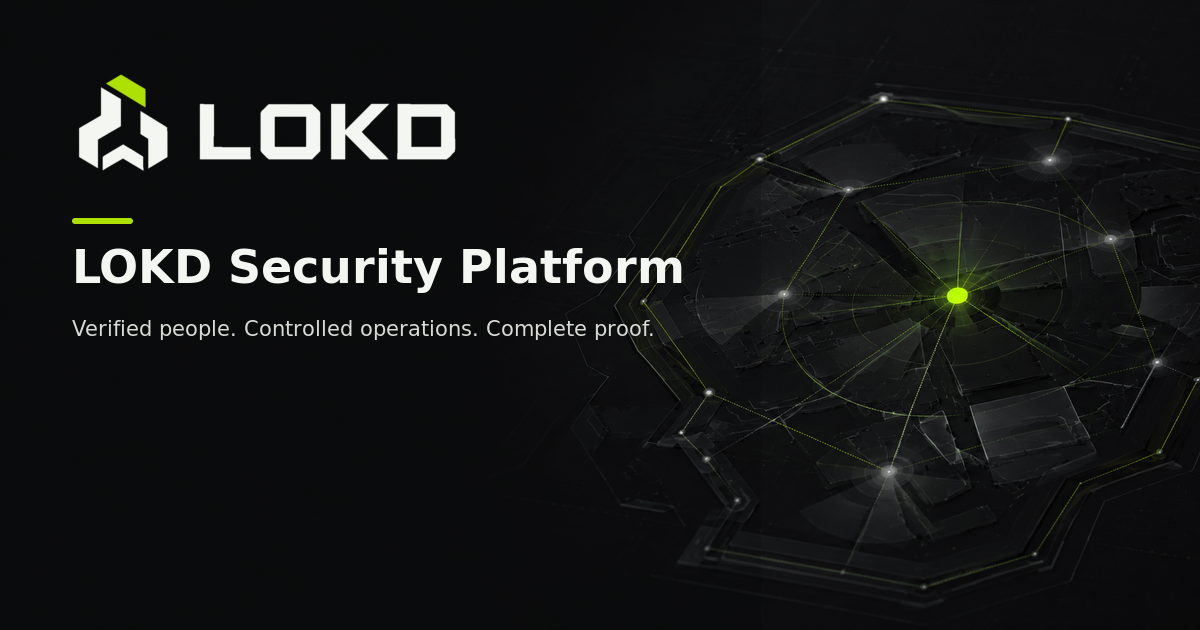
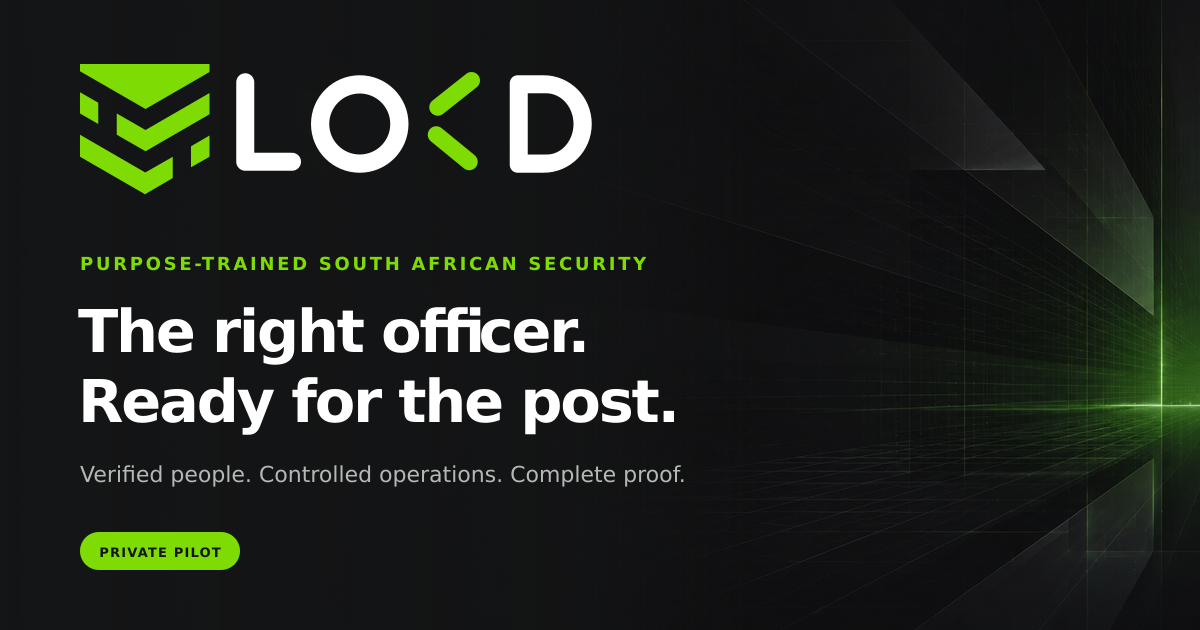
Adopt new LOKD master identity and brand assets

diff --git a/app/globals.css b/app/globals.css
@@ -6,8 +6,8 @@
   --muted: #6d7378;
   --line: #e5e8e9;
   --canvas: #f3f5f4;
-  --lime: #ade005;
-  --lime-soft: #eff8cf;
+  --lime: #7edb04;
+  --lime-soft: #eef9dc;
   --blue: #2878ee;
   --amber: #d98b15;
   --red: #cf3d45;
@@ -73,7 +73,7 @@
 .wallet-activity-row b { text-align: right; }
 .lokd-card-preview { margin-bottom: 16px; padding: 22px; border-radius: 20px; background: #eaf0d1; display: grid; grid-template-columns: 250px 1fr auto; gap: 26px; align-items: center; }
 .mini-payment-card { aspect-ratio: 1.586/1; padding: 20px; border-radius: 17px; background: linear-gradient(145deg,#202325,#0f1112); color: #fff; display: grid; grid-template-columns: 1fr auto; grid-template-rows: auto 1fr auto; box-shadow: 0 18px 36px rgba(22,24,25,.2); }
-.mini-payment-card img { width: 78px; filter: brightness(0) invert(1); }
+.mini-payment-card img { width: 78px; }
 .mini-payment-card > span { color: var(--lime); font-size: 7px; letter-spacing: .12em; }
 .mini-payment-card b { grid-column: 1/-1; align-self: end; font-size: 12px; letter-spacing: .14em; }
 .lokd-card-preview h2 { margin: 5px 0 8px; font-size: 24px; letter-spacing: -.04em; }
@@ -131,7 +131,7 @@
 .payment-gate { margin: -12px 0 22px; padding: 13px; border-radius: 11px; background: #fff5e6; display: flex; gap: 9px; }
 .payment-gate > span { width: 20px; height: 20px; border-radius: 7px; background: #f2dfbd; color: #8a611f; display: grid; place-items: center; font-size: 8px; font-weight: 800; flex: 0 0 auto; }
 .payment-gate p { margin: 0; color: #806a47; font-size: 8px; line-height: 1.5; }
-.future-card-note { margin-top: 18px; padding: 13px; border: 1px solid rgba(173,224,5,.22); border-radius: 11px; background: rgba(173,224,5,.07); }
+.future-card-note { margin-top: 18px; padding: 13px; border: 1px solid rgba(126,219,4,.22); border-radius: 11px; background: rgba(126,219,4,.07); }
 .future-card-note strong { color: var(--lime); font-size: 9px; }
 .future-card-note p { margin: 5px 0 0; color: #8d9597; font-size: 8px; line-height: 1.45; }
 
@@ -183,13 +183,13 @@
 .public-button:hover { transform: translateY(-2px); }
 .public-button b { margin-left: auto; font-size: 17px; font-weight: 500; }
 .public-button--dark { background: #17191a; color: #fff !important; box-shadow: 0 12px 28px rgba(18,20,21,.14); }
-.public-button--lime { background: var(--lime); color: #17190f !important; box-shadow: 0 15px 34px rgba(147,184,16,.22); }
+.public-button--lime { background: var(--lime); color: #17190f !important; box-shadow: 0 15px 34px rgba(126,219,4,.22); }
 .public-button--outline { border-color: #484d4f; background: rgba(255,255,255,.03); color: #fff !important; }
 .public-button--outline-dark { border-color: #d9dddd; background: #fff; color: #1d2021 !important; }
 .public-kicker { margin: 0; color: #78820e; font-size: 11px; font-weight: 900; text-transform: uppercase; letter-spacing: .14em; }
-.public-kicker i { width: 7px; height: 7px; margin-right: 8px; border-radius: 50%; background: var(--lime); display: inline-block; box-shadow: 0 0 0 6px rgba(173,224,5,.1); }
+.public-kicker i { width: 7px; height: 7px; margin-right: 8px; border-radius: 50%; background: var(--lime); display: inline-block; box-shadow: 0 0 0 6px rgba(126,219,4,.1); }
 .public-hero { min-height: 690px; padding: 80px max(24px, calc((100vw - 1280px) / 2)); background: #151718; color: #fff; display: grid; grid-template-columns: minmax(0,1.05fr) minmax(450px,.95fr); gap: 80px; align-items: center; position: relative; isolation: isolate; }
-.public-hero::before { content: ""; width: 650px; height: 650px; position: absolute; right: -200px; top: -300px; z-index: -1; border-radius: 50%; background: radial-gradient(circle,rgba(173,224,5,.12),transparent 67%); }
+.public-hero::before { content: ""; width: 650px; height: 650px; position: absolute; right: -200px; top: -300px; z-index: -1; border-radius: 50%; background: radial-gradient(circle,rgba(126,219,4,.12),transparent 67%); }
 .public-hero-copy { max-width: 680px; }
 .public-hero-copy h1 { margin: 26px 0 25px; font-size: clamp(54px,6vw,86px); line-height: .94; letter-spacing: -.065em; }
 .public-hero-copy h1 span { color: var(--lime); }
@@ -199,7 +199,7 @@
 .public-proof-row { margin-top: 34px; display: flex; flex-wrap: wrap; gap: 22px; color: #80878a; font-size: 10px; font-weight: 750; }
 .public-proof-row span::first-letter { color: var(--lime); }
 .public-hero-product { min-height: 520px; display: grid; place-items: center; position: relative; }
-.product-orbit { position: absolute; border: 1px solid rgba(173,224,5,.13); border-radius: 50%; }
+.product-orbit { position: absolute; border: 1px solid rgba(126,219,4,.13); border-radius: 50%; }
 .product-orbit--one { width: 470px; height: 470px; }
 .product-orbit--two { width: 330px; height: 330px; border-color: rgba(255,255,255,.08); }
 .public-offer-card { width: min(390px,88%); min-height: 420px; padding: 27px; z-index: 2; border: 1px solid rgba(255,255,255,.09); border-radius: 26px; background: #f8f9f7; color: #191b1c; box-shadow: 0 42px 80px rgba(0,0,0,.38); transform: rotate(-2deg); }
@@ -323,7 +323,7 @@
 .join-fields > label, .join-two label { color: #4f5658; font-size: 10px; font-weight: 800; }
 .join-fields label small { color: #92989a; font-weight: 500; }
 .join-fields input, .join-fields select { width: 100%; height: 48px; margin-top: 7px; padding: 0 13px; border: 1px solid #dbe0dc; border-radius: 11px; background: #fff; color: #202324; outline: none; font: inherit; font-size: 11px; font-weight: 500; }
-.join-fields input:focus, .join-fields select:focus { border-color: #8ba921; box-shadow: 0 0 0 3px rgba(173,224,5,.16); }
+.join-fields input:focus, .join-fields select:focus { border-color: #8ba921; box-shadow: 0 0 0 3px rgba(126,219,4,.16); }
 .join-two { display: grid; grid-template-columns: 1fr 1fr; gap: 13px; }
 .join-check-grid { display: grid; grid-template-columns: repeat(3,1fr); gap: 9px; }
 .join-check-grid legend { grid-column: 1/-1; }
@@ -461,7 +461,7 @@
 .officer-primary-action.is-live { box-shadow: inset 0 4px 0 var(--lime), 0 20px 48px rgba(20,21,22,.14); }
 .action-status { display: flex; align-items: center; justify-content: space-between; color: #91979a; font-size: 13px; }
 .action-status span { display: flex; align-items: center; gap: 8px; color: #f1f4f4; font-weight: 800; text-transform: uppercase; letter-spacing: .08em; }
-.action-status span i { width: 8px; height: 8px; border-radius: 50%; background: var(--lime); box-shadow: 0 0 0 5px rgba(173,224,5,.1); }
+.action-status span i { width: 8px; height: 8px; border-radius: 50%; background: var(--lime); box-shadow: 0 0 0 5px rgba(126,219,4,.1); }
 .action-status em { font-style: normal; }
 .officer-primary-action h2 { max-width: 680px; margin: 70px 0 8px; font-size: clamp(32px,5vw,52px); line-height: 1; letter-spacing: -.05em; }
 .officer-primary-action > p { margin: 0; color: #979da0; font-size: 15px; }
@@ -742,11 +742,11 @@ button { color: inherit; }
 
 .side-rail { position: fixed; inset: 0 auto 0 0; width: 252px; padding: 28px 20px 20px; background: var(--carbon); color: #fff; display: flex; flex-direction: column; z-index: 20; }
 .brand-lockup { height: 46px; display: flex; align-items: center; padding: 0 8px; }
-.brand-lockup img { width: 130px; height: auto; filter: brightness(0) invert(1); }
+.brand-lockup img { width: 130px; height: auto; }
 .pilot-chip { margin-top: 26px; padding: 12px; display: flex; gap: 10px; align-items: flex-start; border: 1px solid rgba(255,255,255,.11); background: rgba(255,255,255,.045); border-radius: 14px; }
 .pilot-chip > span:last-child { display: flex; flex-direction: column; gap: 2px; font-size: 11px; color: #90969b; line-height: 1.35; }
 .pilot-chip strong { color: #f7f9f9; font-size: 12px; font-weight: 650; }
-.pulse-dot { width: 8px; height: 8px; margin-top: 4px; border-radius: 50%; background: var(--lime); box-shadow: 0 0 0 4px rgba(173,224,5,.12); flex: 0 0 auto; }
+.pulse-dot { width: 8px; height: 8px; margin-top: 4px; border-radius: 50%; background: var(--lime); box-shadow: 0 0 0 4px rgba(126,219,4,.12); flex: 0 0 auto; }
 .side-rail nav { margin-top: 36px; display: flex; flex-direction: column; gap: 5px; }
 .nav-label { margin: 0 10px 10px; color: #72787d; font-size: 10px; font-weight: 750; text-transform: uppercase; letter-spacing: .16em; }
 .nav-item { border: 0; background: transparent; color: #aeb3b6; border-radius: 11px; min-height: 44px; padding: 0 12px; display: flex; align-items: center; gap: 10px; cursor: pointer; text-align: left; font-size: 13px; font-weight: 590; transition: .18s ease; }
@@ -792,7 +792,7 @@ button { color: inherit; }
 .coverage-summary { padding: 32px 32px 28px; display: flex; flex-direction: column; }
 .coverage-heading { display: flex; align-items: center; justify-content: space-between; color: #888e92; font-size: 10px; }
 .live-label { display: flex; gap: 7px; align-items: center; color: #dfe3e3; text-transform: uppercase; letter-spacing: .12em; font-weight: 750; }
-.live-label i { width: 7px; height: 7px; background: var(--lime); border-radius: 50%; box-shadow: 0 0 0 4px rgba(173,224,5,.12); }
+.live-label i { width: 7px; height: 7px; background: var(--lime); border-radius: 50%; box-shadow: 0 0 0 4px rgba(126,219,4,.12); }
 .coverage-summary h2 { margin: 38px 0 10px; max-width: 430px; font-size: clamp(29px, 3vw, 42px); line-height: 1.07; letter-spacing: -.04em; font-weight: 620; }
 .coverage-summary > p { margin: 0; max-width: 470px; color: #92989b; font-size: 12px; line-height: 1.65; }
 .coverage-stats { margin-top: auto; display: grid; grid-template-columns: repeat(3,1fr); border-top: 1px solid rgba(255,255,255,.09); padding-top: 20px; }
@@ -801,12 +801,12 @@ button { color: inherit; }
 .coverage-stats span { color: #7f8588; font-size: 10px; }
 .coverage-map { position: relative; min-height: 330px; overflow: hidden; background: radial-gradient(circle at 50% 48%, #26292b 0, #1a1c1e 72%); border-left: 1px solid rgba(255,255,255,.05); }
 .map-grid { position: absolute; inset: 0; opacity: .15; background-image: linear-gradient(rgba(255,255,255,.13) 1px, transparent 1px), linear-gradient(90deg, rgba(255,255,255,.13) 1px, transparent 1px); background-size: 42px 42px; transform: rotate(-8deg) scale(1.2); }
-.map-ring { position: absolute; border: 1px solid rgba(173,224,5,.13); border-radius: 50%; }
+.map-ring { position: absolute; border: 1px solid rgba(126,219,4,.13); border-radius: 50%; }
 .map-ring--one { width: 240px; height: 240px; top: 38px; left: 42px; }
 .map-ring--two { width: 180px; height: 180px; right: 34px; bottom: 10px; }
-.map-route { position: absolute; width: 48%; height: 1px; left: 27%; top: 53%; background: repeating-linear-gradient(90deg, rgba(173,224,5,.7) 0 5px, transparent 5px 11px); transform: rotate(-14deg); transform-origin: center; }
+.map-route { position: absolute; width: 48%; height: 1px; left: 27%; top: 53%; background: repeating-linear-gradient(90deg, rgba(126,219,4,.7) 0 5px, transparent 5px 11px); transform: rotate(-14deg); transform-origin: center; }
 .site-pin { position: absolute; border: 0; background: transparent; color: #fff; text-align: left; cursor: pointer; padding-left: 52px; min-width: 170px; }
-.site-pin > span { position: absolute; left: 0; top: 0; width: 40px; height: 40px; border-radius: 13px; background: var(--lime); display: grid; place-items: center; box-shadow: 0 0 0 8px rgba(173,224,5,.06), 0 12px 28px rgba(0,0,0,.24); }
+.site-pin > span { position: absolute; left: 0; top: 0; width: 40px; height: 40px; border-radius: 13px; background: var(--lime); display: grid; place-items: center; box-shadow: 0 0 0 8px rgba(126,219,4,.06), 0 12px 28px rgba(0,0,0,.24); }
 .site-pin strong, .site-pin small { display: block; }
 .site-pin strong { font-size: 12px; margin: 2px 0 4px; }
 .site-pin small { color: #8f9699; font-size: 9px; }
@@ -1216,7 +1216,7 @@ button { color: inherit; }
 .client-status-card { display: grid; grid-template-columns: 1.35fr .65fr; border-radius: 23px; overflow: hidden; background: var(--carbon); color: #fff; }
 .client-status-main { padding: 28px; min-height: 290px; display: flex; flex-direction: column; }
 .coverage-active { color: #dfe4e5; font-size: 9px; text-transform: uppercase; letter-spacing: .09em; }
-.coverage-active i { width: 7px; height: 7px; margin-right: 7px; display: inline-block; border-radius: 50%; background: var(--lime); box-shadow: 0 0 0 4px rgba(173,224,5,.1); }
+.coverage-active i { width: 7px; height: 7px; margin-right: 7px; display: inline-block; border-radius: 50%; background: var(--lime); box-shadow: 0 0 0 4px rgba(126,219,4,.1); }
 .client-status-main h2 { margin: 46px 0 7px; font-size: 31px; letter-spacing: -.04em; }
 .client-status-main > p { margin: 0; color: #8c9396; font-size: 10px; }
 .coverage-timeline { margin-top: auto; display: grid; grid-template-columns: auto 1fr auto; gap: 14px; align-items: center; color: #fff; font-size: 10px; }
@@ -1457,7 +1457,7 @@ button { color: inherit; }
 .feedback-categories button.active, .feedback-score button.active { border-color: #96b823; background: #f1f6df; color: #556d13; }
 .feedback-drawer > label { margin-top: 25px; display: block; }
 .feedback-drawer textarea { width: 100%; min-height: 125px; margin-top: 9px; padding: 12px; border: 1px solid #dfe3e3; border-radius: 11px; resize: vertical; font: inherit; line-height: 1.5; outline: none; }
-.feedback-drawer textarea:focus { border-color: #94b521; box-shadow: 0 0 0 3px rgba(173,224,5,.12); }
+.feedback-drawer textarea:focus { border-color: #94b521; box-shadow: 0 0 0 3px rgba(126,219,4,.12); }
 .feedback-message { margin: 13px 0 0; padding: 11px; border-radius: 9px; background: #eff5dc; color: #5e701e; font-size: 9px; line-height: 1.45; }
 .feedback-submit { width: 100%; min-height: 48px; margin-top: 18px; border: 0; border-radius: 12px; background: var(--lime); color: #1b1e12; font-size: 10px; font-weight: 900; cursor: pointer; }
 .feedback-submit:disabled { opacity: .55; cursor: default; }

diff --git a/app/officer/page.tsx b/app/officer/page.tsx
@@ -206,7 +206,7 @@ function OfficerEarnings({ state, pilot, flash }: { state: PilotState; pilot: Re
     paid: { label: "Paid", note: "Settlement completed", tone: "green" },
     held: { label: "Held for review", note: "Only this contested earning is affected", tone: "red" },
   };
-  return <section className="wallet-v2"><article className="wallet-balance-v2"><div><span>LOKD Earnings & Payouts</span><strong>{money(state.wallet.availableCents)}</strong><p>Ready for payout</p></div><dl><div><dt>Awaiting verification or release</dt><dd>{money(state.wallet.pendingCents)}</dd></div><div><dt>Payout processing</dt><dd>{money(state.wallet.withdrawalQueuedCents)}</dd></div><div><dt>Payout destination</dt><dd>Verified partner token · •••• 1842</dd></div></dl><div className="wallet-withdrawal"><span>Next processing window</span><strong>Thursday · expected Friday clearance</strong><button disabled={pilot.busy || state.wallet.availableCents === 0} onClick={() => void requestPayout()}>{pilot.busy ? "Queuing…" : state.wallet.availableCents ? `Request ${money(state.wallet.availableCents)} payout` : "Nothing ready yet"}</button></div><p className="earnings-disclaimer">Amounts shown are records of work and payout status. LOKD does not provide a bank account or stored-value wallet in this pilot.</p></article><section className="officer-section-card wallet-activity-v2"><div className="officer-section-heading"><div><p className="eyebrow">Earnings activity</p><h2>Where every amount stands</h2></div></div>{state.ledger.map((entry) => { const copy = stateCopy[entry.state] ?? stateCopy.pending_release; return <article className="earning-row-v2" key={entry.id}><div><strong>{entry.siteName}</strong><small>{entry.bookingId} · {entry.releaseCadence} release</small><p>{copy.note}</p></div><span><b>{money(entry.amountCents)}</b><em className={`pill tone-${copy.tone}`}>{copy.label}</em></span></article>; })}</section><section className="lokd-card-preview card-preview-v2"><div className="mini-payment-card"><img src="/lokd-logo.svg" alt="" /><span>OFFICER</span><b>•••• 2081</b></div><div><p className="eyebrow">Card concept · interest register</p><h2>LOKD Card</h2><p>An optional card remains under partner discussion. It will not affect officer approval, ranking, rates or access to ordinary EFT payouts.</p><small>No bank account, card or money movement is live in this private pilot.</small></div></section></section>;
+  return <section className="wallet-v2"><article className="wallet-balance-v2"><div><span>LOKD Earnings & Payouts</span><strong>{money(state.wallet.availableCents)}</strong><p>Ready for payout</p></div><dl><div><dt>Awaiting verification or release</dt><dd>{money(state.wallet.pendingCents)}</dd></div><div><dt>Payout processing</dt><dd>{money(state.wallet.withdrawalQueuedCents)}</dd></div><div><dt>Payout destination</dt><dd>Verified partner token · •••• 1842</dd></div></dl><div className="wallet-withdrawal"><span>Next processing window</span><strong>Thursday · expected Friday clearance</strong><button disabled={pilot.busy || state.wallet.availableCents === 0} onClick={() => void requestPayout()}>{pilot.busy ? "Queuing…" : state.wallet.availableCents ? `Request ${money(state.wallet.availableCents)} payout` : "Nothing ready yet"}</button></div><p className="earnings-disclaimer">Amounts shown are records of work and payout status. LOKD does not provide a bank account or stored-value wallet in this pilot.</p></article><section className="officer-section-card wallet-activity-v2"><div className="officer-section-heading"><div><p className="eyebrow">Earnings activity</p><h2>Where every amount stands</h2></div></div>{state.ledger.map((entry) => { const copy = stateCopy[entry.state] ?? stateCopy.pending_release; return <article className="earning-row-v2" key={entry.id}><div><strong>{entry.siteName}</strong><small>{entry.bookingId} · {entry.releaseCadence} release</small><p>{copy.note}</p></div><span><b>{money(entry.amountCents)}</b><em className={`pill tone-${copy.tone}`}>{copy.label}</em></span></article>; })}</section><section className="lokd-card-preview card-preview-v2"><div className="mini-payment-card"><img src="/lokd-logo-reverse.svg" alt="" /><span>OFFICER</span><b>•••• 2081</b></div><div><p className="eyebrow">Card concept · interest register</p><h2>LOKD Card</h2><p>An optional card remains under partner discussion. It will not affect officer approval, ranking, rates or access to ordinary EFT payouts.</p><small>No bank account, card or money movement is live in this private pilot.</small></div></section></section>;
 }
 
 function OfficerProfile({ state, pilot, flash }: { state: PilotState; pilot: ReturnType<typeof usePilot>; flash: (text: string) => void }) {

diff --git a/app/components/operations-app.tsx b/app/components/operations-app.tsx
@@ -139,7 +139,7 @@ export default function OperationsApp() {
     <main className="app-shell">
       <aside className="side-rail">
         <div className="brand-lockup">
-          <img src="/lokd-logo.svg" alt="LOKD" />
+          <img src="/lokd-logo-reverse.svg" alt="LOKD" />
         </div>
 
         <div className="pilot-chip">

diff --git a/app/layout.tsx b/app/layout.tsx
@@ -18,8 +18,9 @@ export const metadata: Metadata = {
     images: ["/og.png"],
   },
   icons: {
-    icon: "/lokd-logo.svg",
-    shortcut: "/lokd-logo.svg",
+    icon: "/favicon.svg",
+    shortcut: "/favicon.svg",
+    apple: "/apple-touch-icon.png",
   },
 };
 
